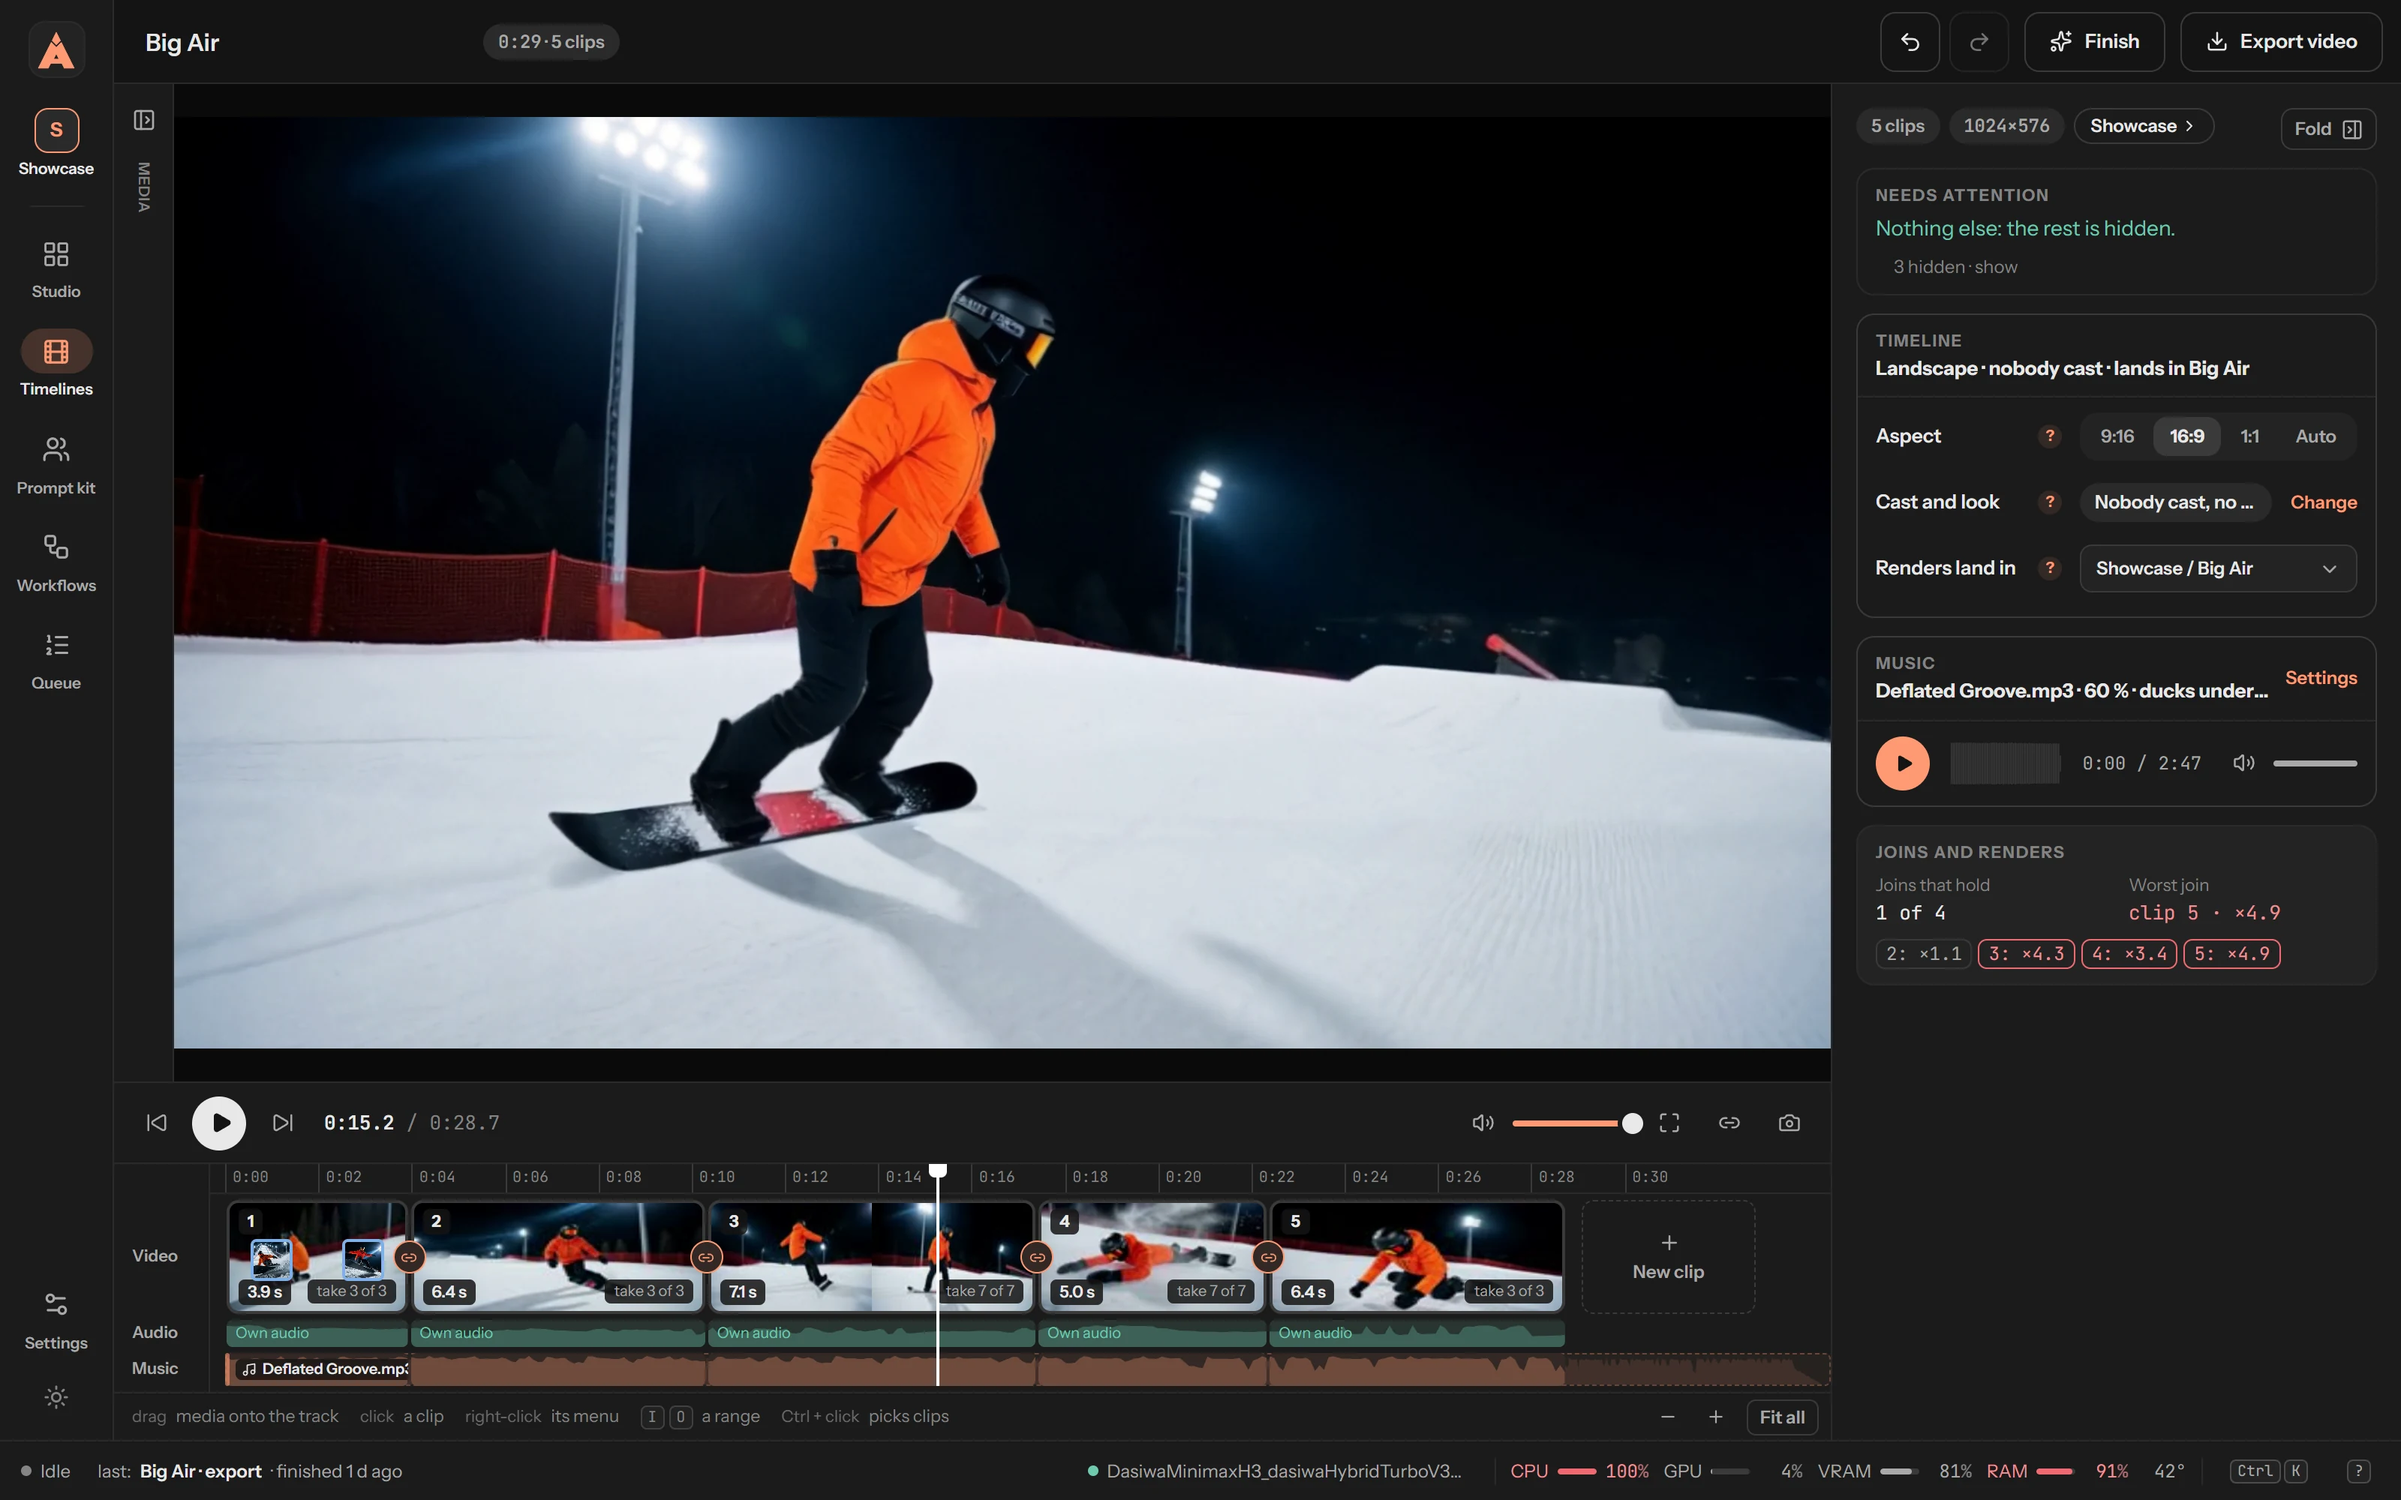
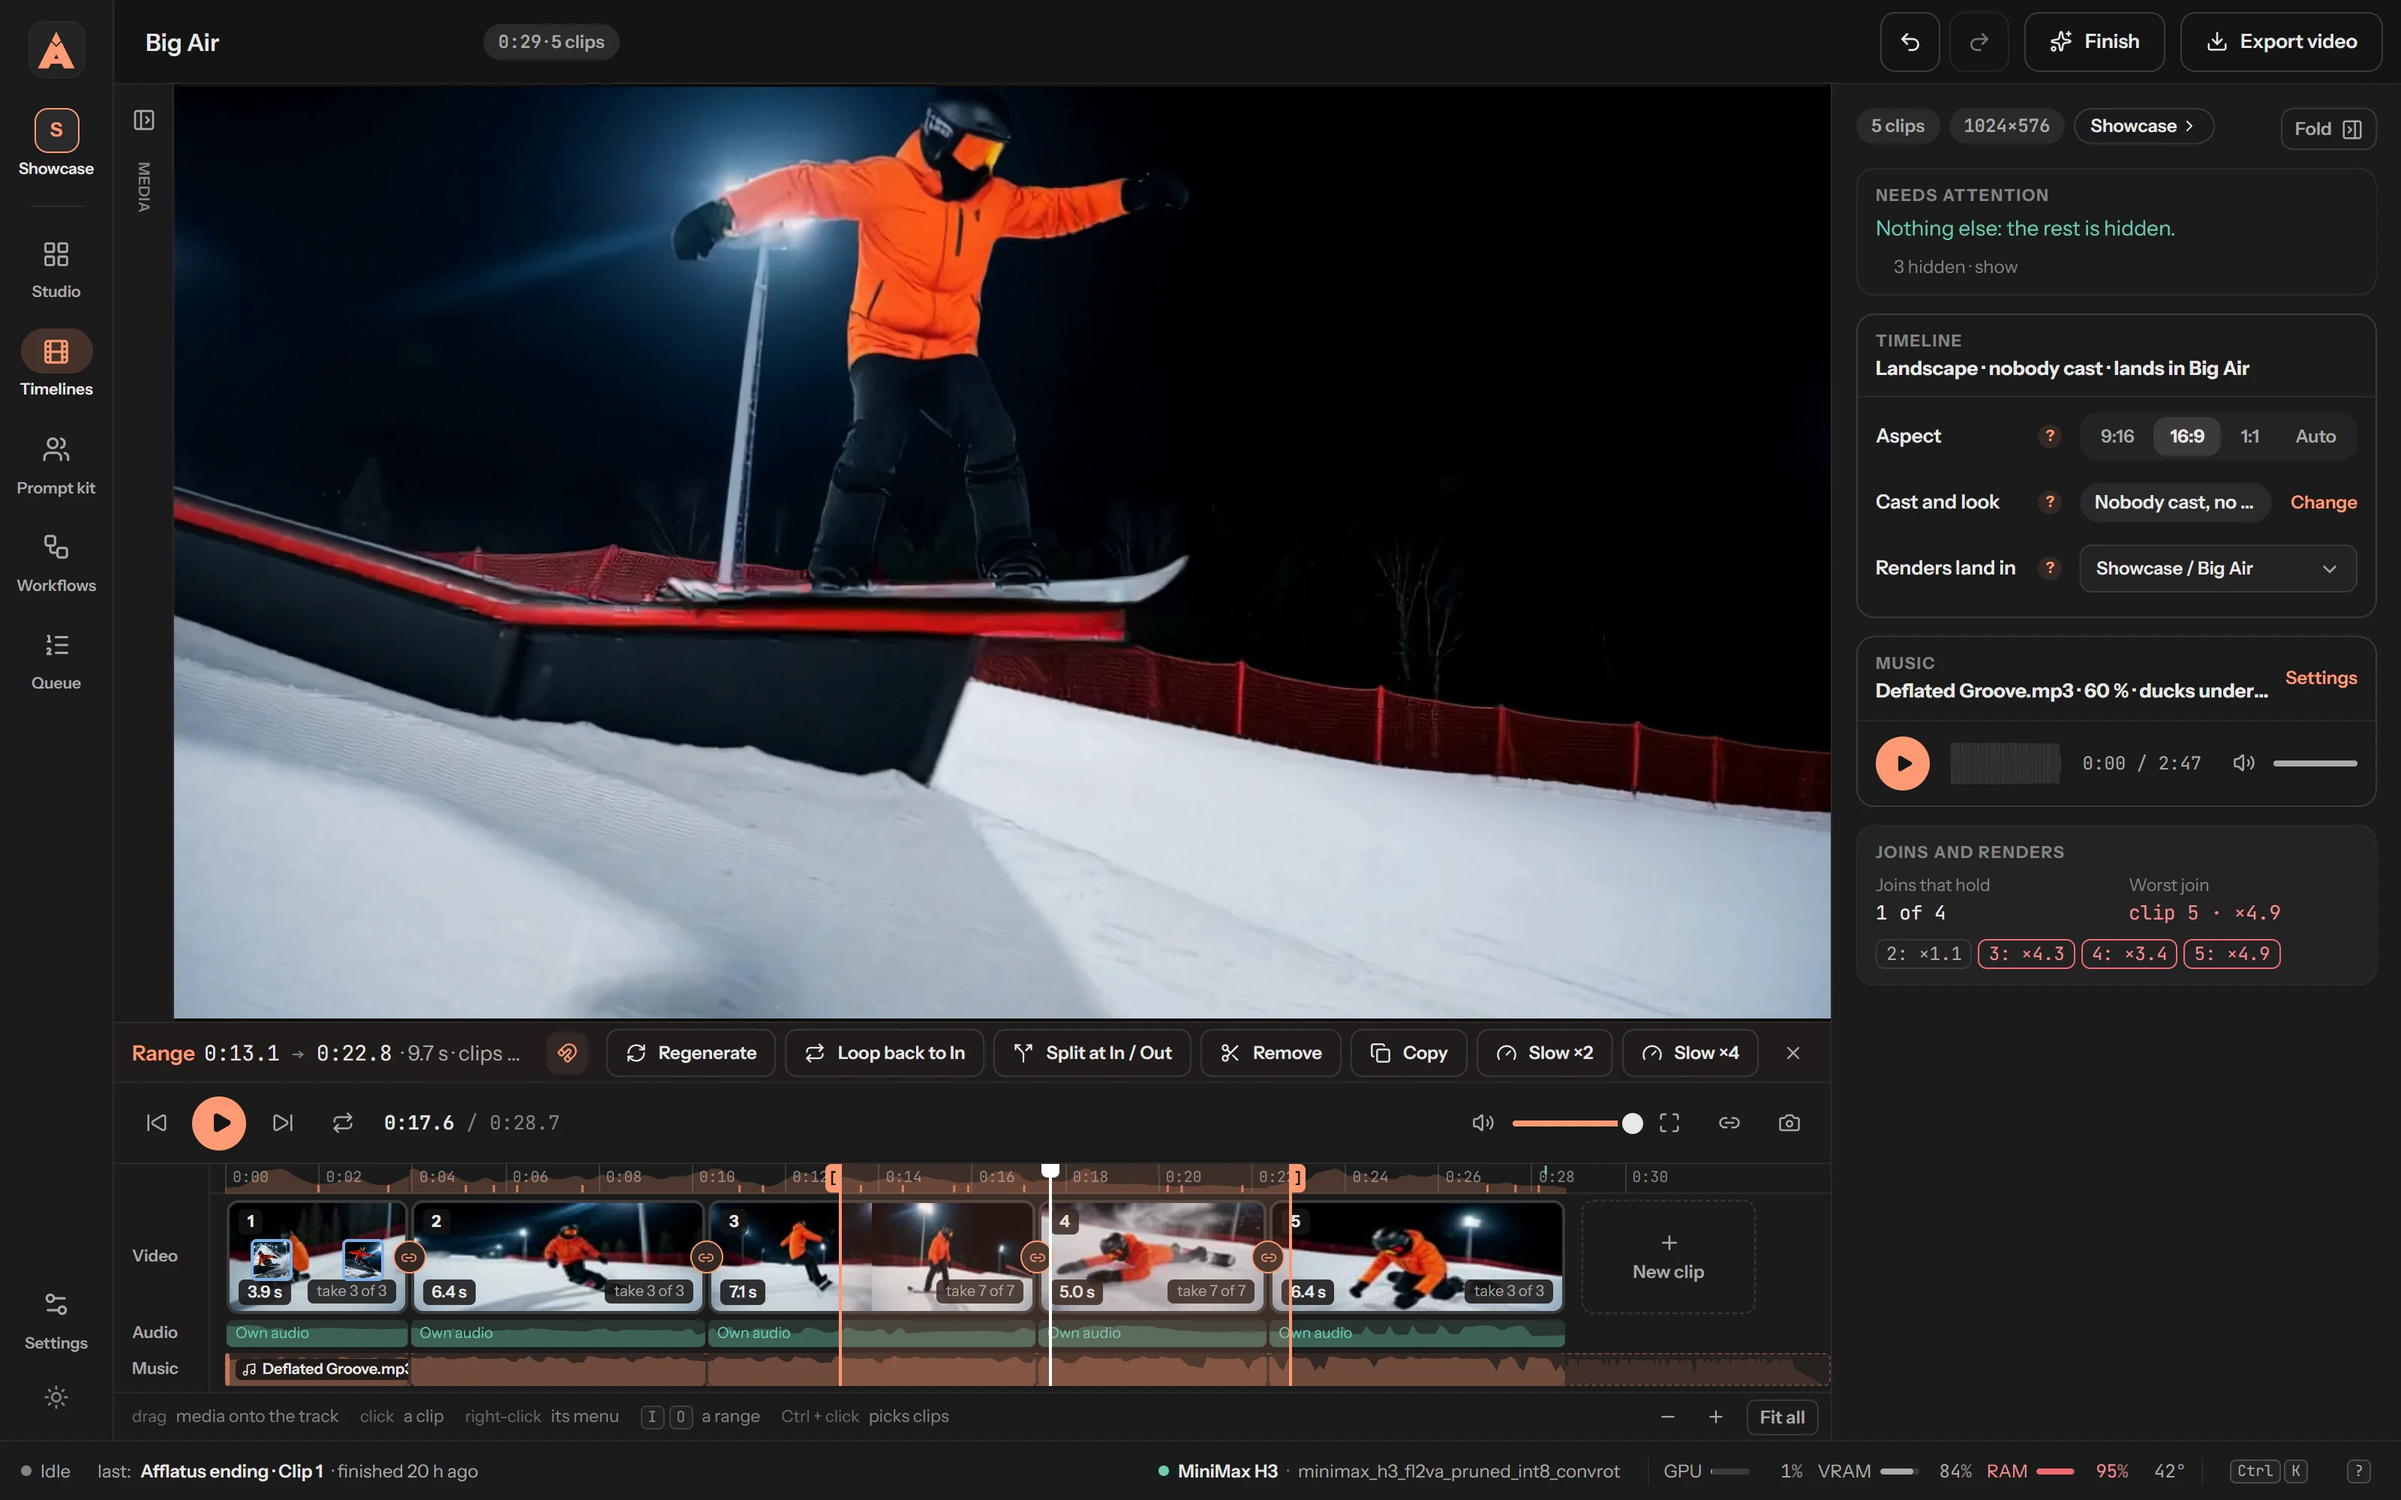
README: range select and regenerate, with the timeline shot showing a range across clips

diff --git a/README.md b/README.md
@@ -27,6 +27,7 @@ It is one small server and a folder of data, on your PC or in a container, talki
 - **Your own workflows, as forms.** Drop in a ComfyUI workflow file and Afflatus turns it into a form, keeps the controls its author put forward, and tells you which node packs and models are missing.
 - **Picture to video in one click.** Like a picture? Open it and press **M**. Pin a first frame, a last frame or a keyframe in the middle, and the model fills in the motion.
 - **A timeline for real videos.** Chain clips into one film, with several takes per clip, trims, music that ducks under voices, and one export. MiniMax H3 clips carry on from the previous clip's latent, so motion and sound flow across the cut.
+- **Fix just the part you don't like.** Mark a stretch of the timeline with **I** and **O**, across clips if you like, and regenerate it: a new clip is made between the two frames and takes its place, while everything around it stays. Or loop it, split it, copy it, or play it in slow motion.
 - **It measures what it makes.** Generation is only half the job. Every take is scored on how cleanly it joins the clip before and how its brightness, sharpness and pace compare. The timeline points out the joins that jump; which take makes the better clip stays your call.
 - **It learns your machine.** Before you press Generate, the form tells you how long it will take, learned from your own past renders. While it runs, you watch a live preview.
 - **Everything in reach.** Projects, a bin that cleans itself, a Prompt kit for people and styles, and **Ctrl+K** to find or do anything from the keyboard.
@@ -78,9 +79,9 @@ Import the workflow file you saved from ComfyUI and Afflatus reads it for you. I
 
 ### The timeline
 
-<p align="center"><img src="docs/media/timeline.webp" alt="The timeline editor with a MiniMax H3 chain" width="820"></p>
+<p align="center"><img src="docs/media/timeline.webp" alt="The timeline editor with a range marked across clips 3 and 4, and its actions: Regenerate, Loop, Split, Remove, Copy, Slow" width="820"></p>
 
-Turn clips into a film. Each clip is a form of its own with as many takes as you like; pick the one that plays. A clip can carry on from the one before, so the motion and the sound keep going across the cut. Trim with scene detection, hold a picture as a still, add music that ducks under voices, then export one video with its colours matched across the cuts, or a small copy for the web.
+Turn clips into a film. Each clip is a form of its own with as many takes as you like; pick the one that plays. A clip can carry on from the one before, so the motion and the sound keep going across the cut. Not happy with two seconds in the middle? Mark them with **I** and **O** and press **Regenerate**: a new clip is made between those two frames, pinned to them, and replaces what was there. Trim with scene detection, hold a picture as a still, add music that ducks under voices, then export one video with its colours matched across the cuts, or a small copy for the web.
 
 ### What it measures
 
